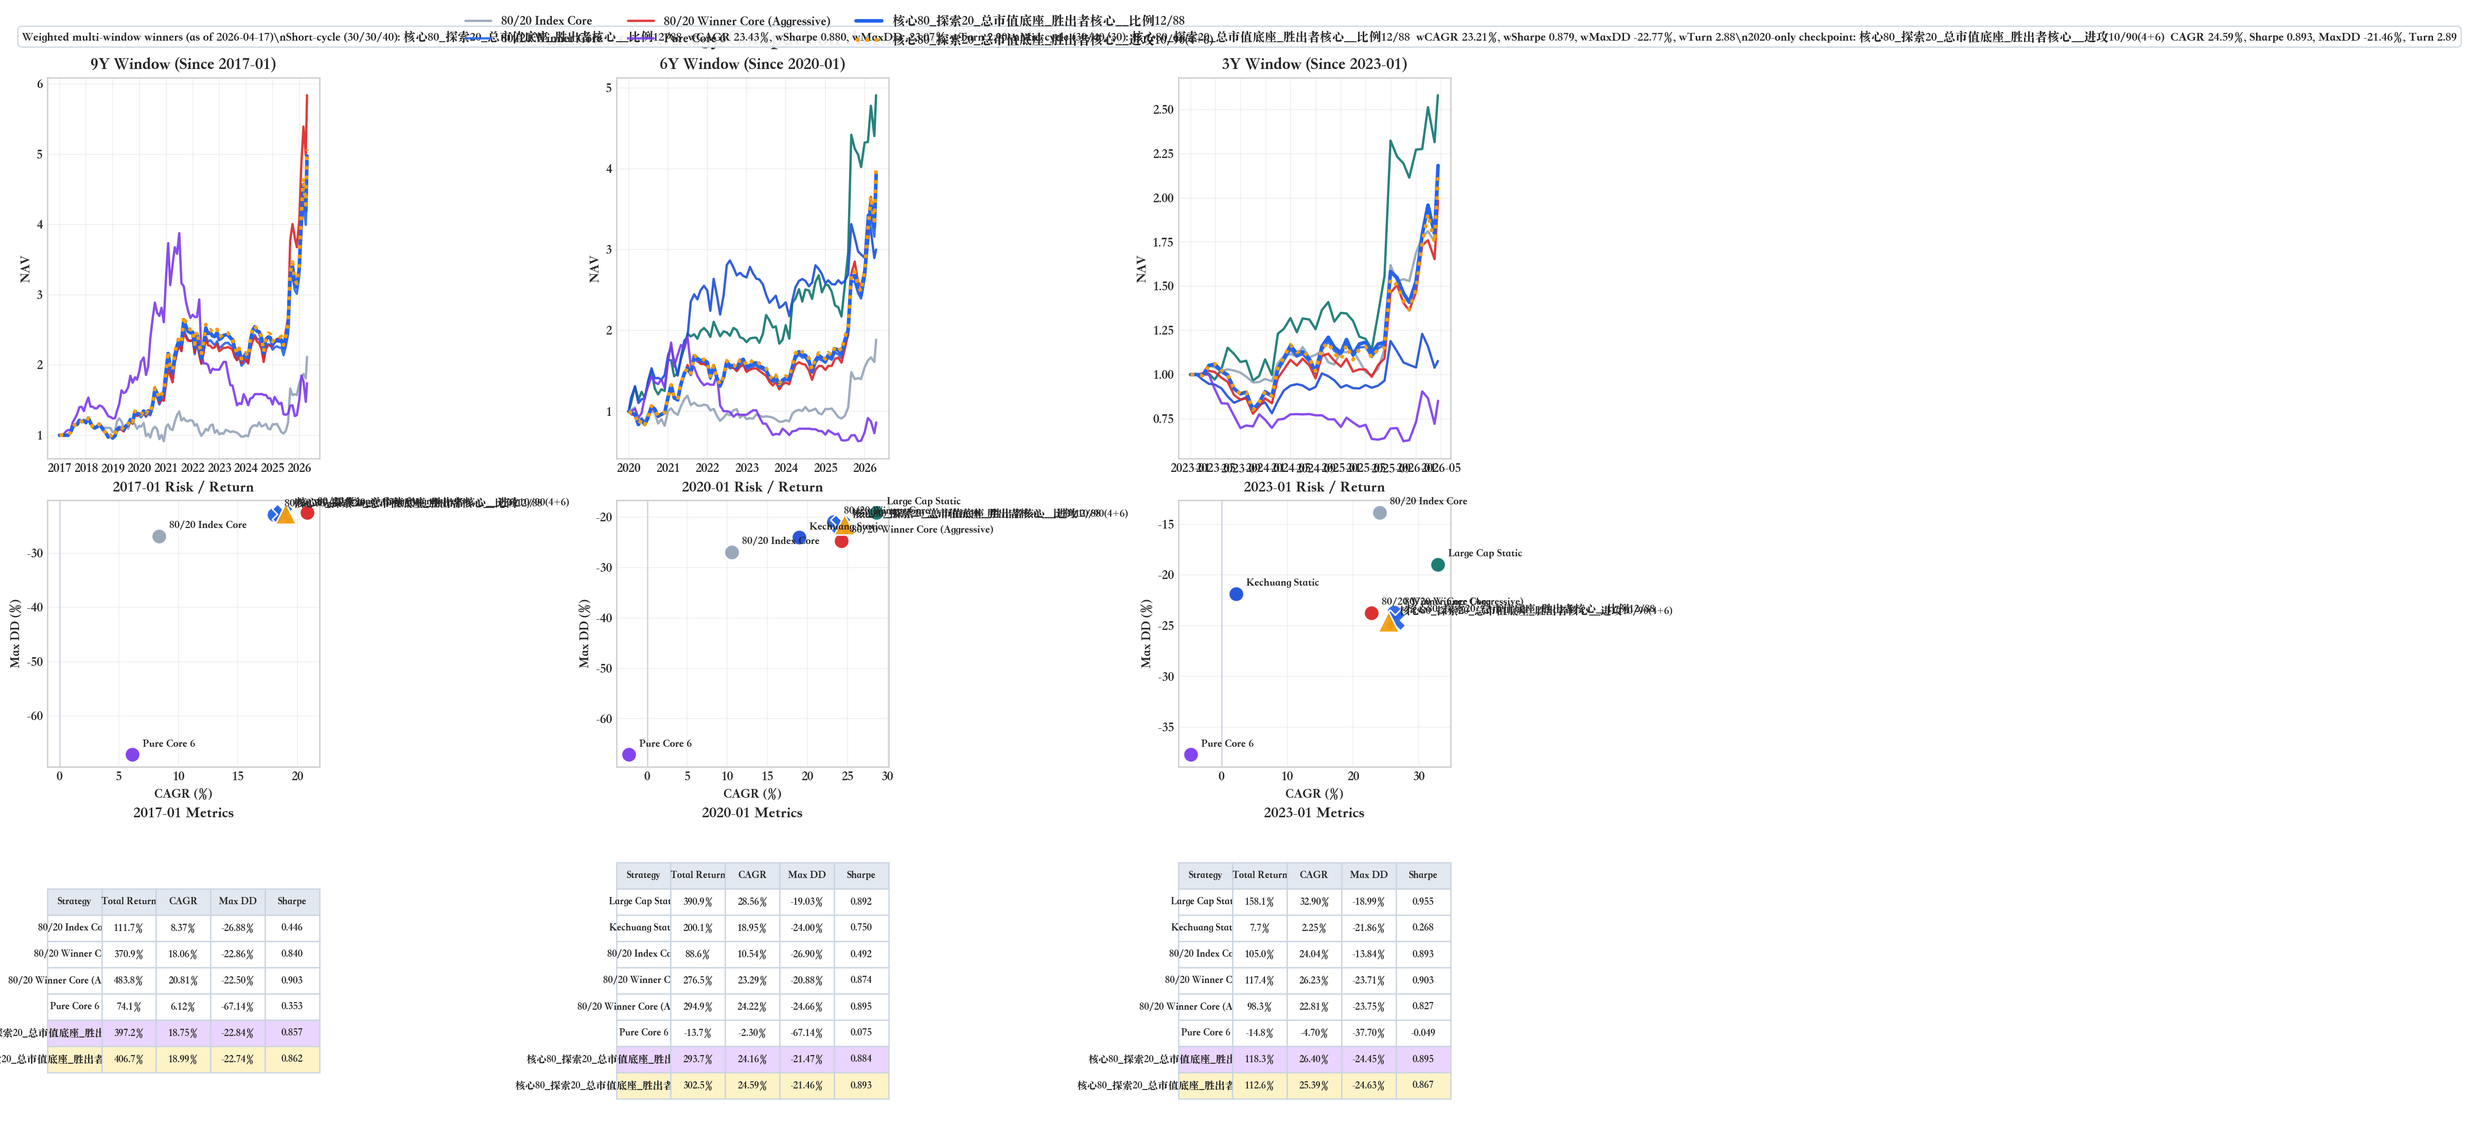
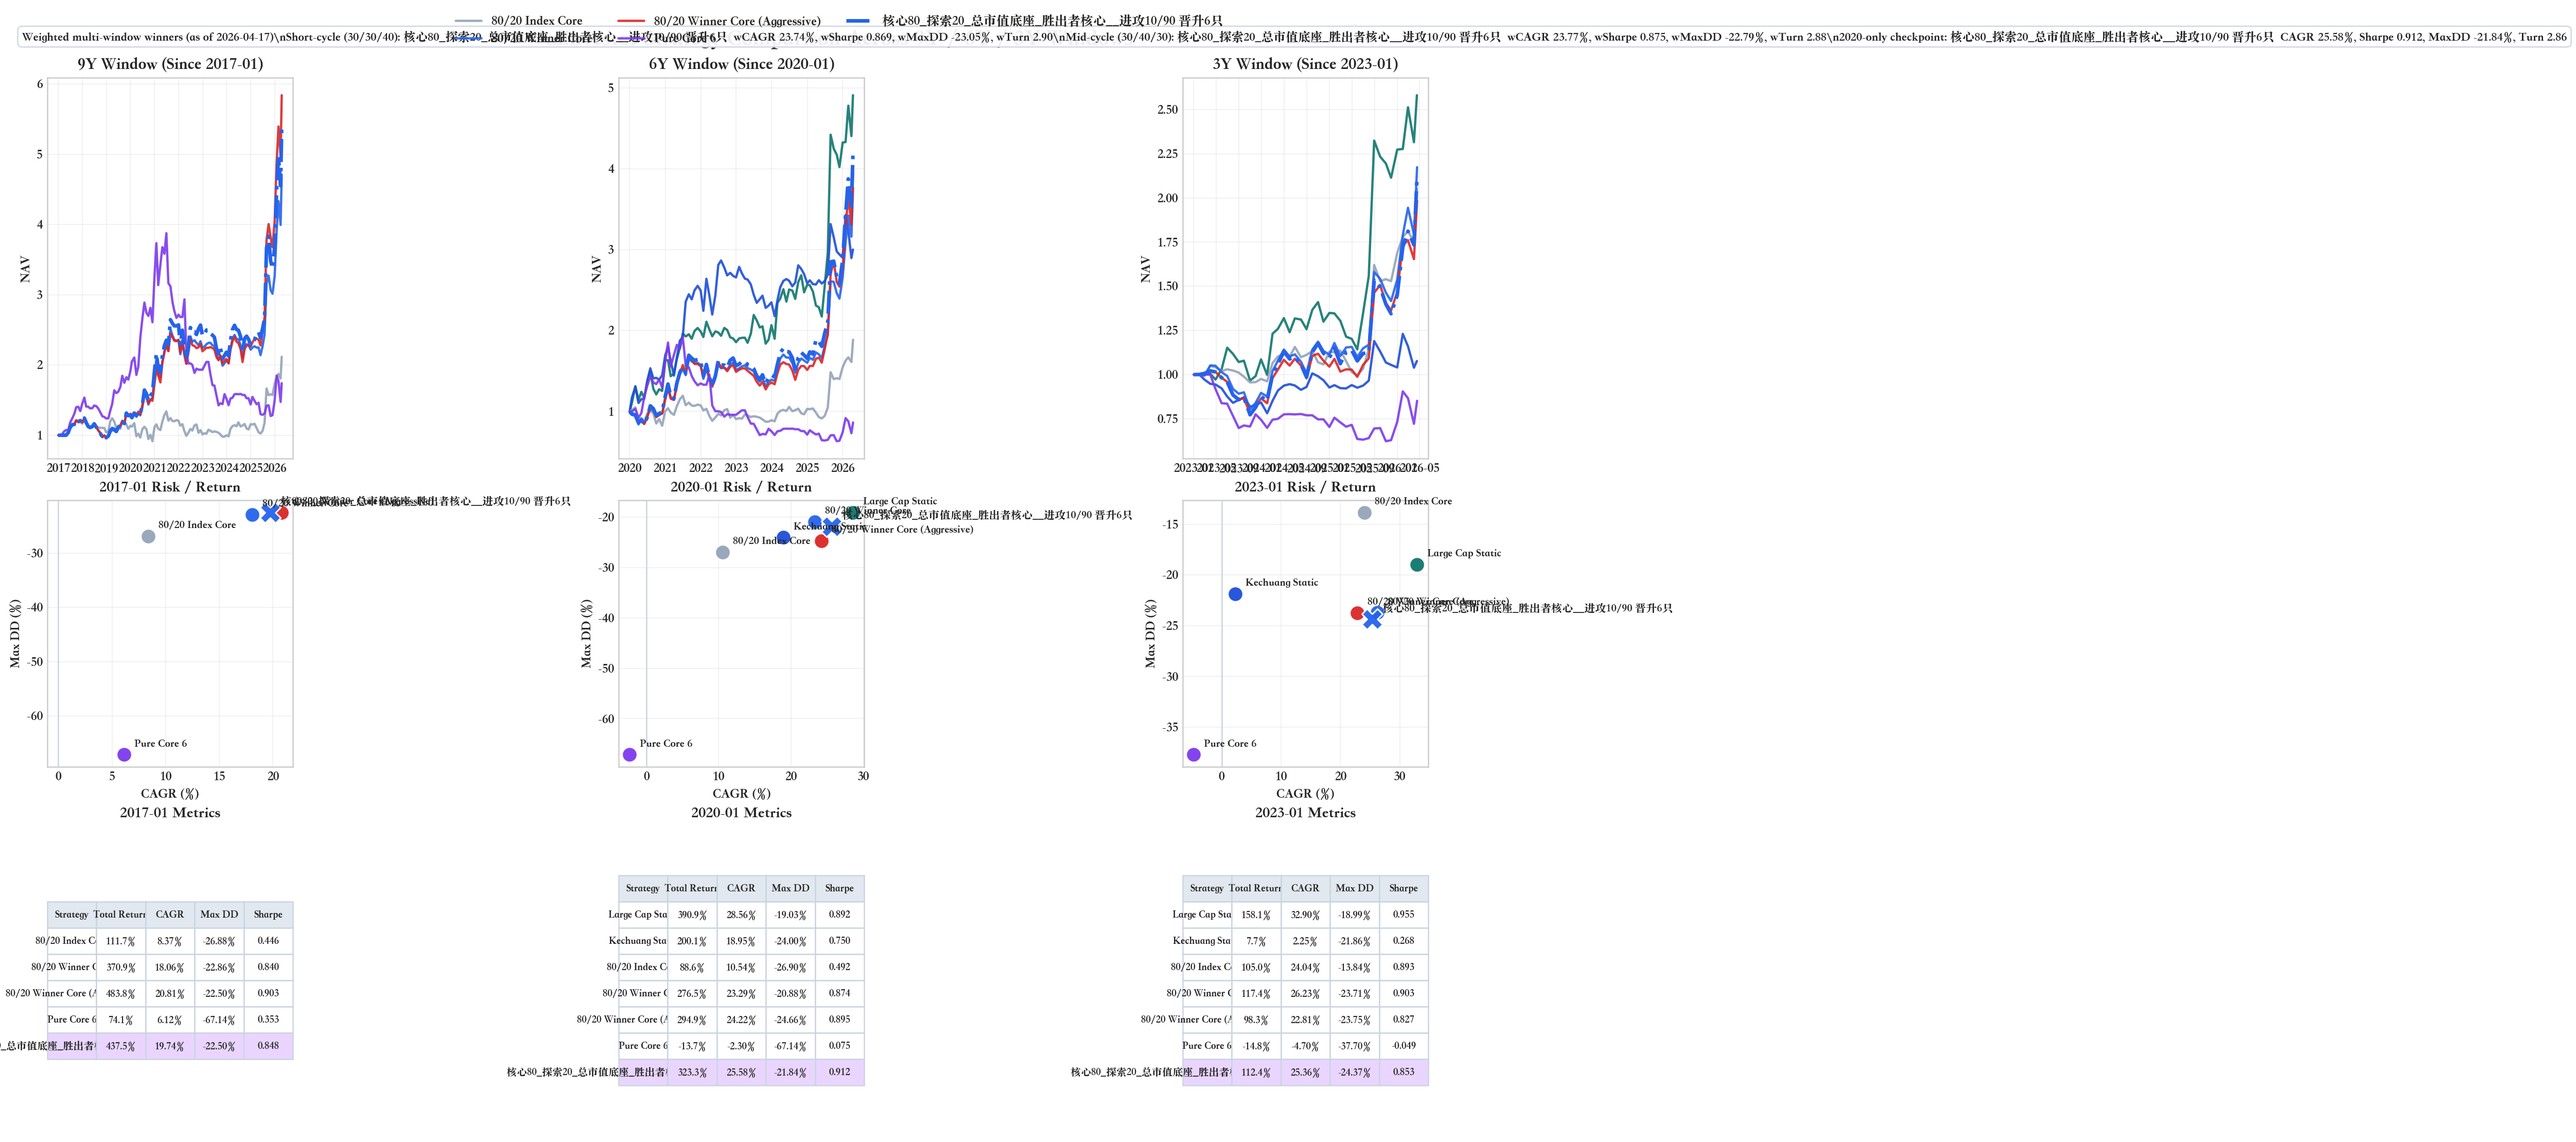
Track aggr_10_90_prom6 as new winner

diff --git a/backtest_marketcap_etf.py b/backtest_marketcap_etf.py
@@ -134,6 +134,15 @@ WINNER_CORE_VARIANTS = [
         "promoted_core_stage_ramp": {1: 1.00},
     },
     {
+        "variant_id": "aggr_10_90_prom6",
+        "variant_name": "进攻10/90 晋升6只",
+        "winner_core_stable_share": 0.10,
+        "winner_core_promoted_share": 0.90,
+        "stable_core_max_holdings": 2,
+        "promoted_core_max_holdings": 6,
+        "promoted_core_stage_ramp": {1: 1.00},
+    },
+    {
         "variant_id": "share_12_88_hold_4_6",
         "variant_name": "比例12/88",
         "winner_core_stable_share": 0.12,

diff --git a/README.md b/README.md
@@ -30,36 +30,36 @@ This repo tracks *three winners in parallel* using weighted multi-window scoring
 
 ### Short-cycle Winner (30/30/40)
 
-- Strategy: `core_explore_80_20_total_mv_winner_core__share_12_88_hold_4_6` (核心80_探索20_总市值底座_胜出者核心__比例12/88)
-- Weighted (CAGR / Sharpe / Max DD / Turnover): `23.43%` / `0.8801` / `-23.07%` / `2.90`
+- Strategy: `core_explore_80_20_total_mv_winner_core__aggr_10_90_prom6` (核心80_探索20_总市值底座_胜出者核心__进攻10/90 晋升6只)
+- Weighted (CAGR / Sharpe / Max DD / Turnover): `23.74%` / `0.8694` / `-23.05%` / `2.90`
 
 Window metrics (as of `2026-04-17`, weights: 2017-01=30%, 2020-01=30%, 2023-01=40%):
 
-- `2017-01-01` → `2026-04-17`: CAGR `18.75%`, Max DD `-22.84%`, Sharpe `0.8570`
-- `2020-01-01` → `2026-04-17`: CAGR `24.16%`, Max DD `-21.47%`, Sharpe `0.8838`
-- `2023-01-01` → `2026-04-17`: CAGR `26.40%`, Max DD `-24.45%`, Sharpe `0.8946`
+- `2017-01-01` → `2026-04-17`: CAGR `19.74%`, Max DD `-22.50%`, Sharpe `0.8480`
+- `2020-01-01` → `2026-04-17`: CAGR `25.58%`, Max DD `-21.84%`, Sharpe `0.9122`
+- `2023-01-01` → `2026-04-17`: CAGR `25.36%`, Max DD `-24.37%`, Sharpe `0.8533`
 
 ### Mid-cycle Winner (30/40/30)
 
-- Strategy: `core_explore_80_20_total_mv_winner_core__share_12_88_hold_4_6` (核心80_探索20_总市值底座_胜出者核心__比例12/88)
-- Weighted (CAGR / Sharpe / Max DD / Turnover): `23.21%` / `0.8790` / `-22.77%` / `2.88`
+- Strategy: `core_explore_80_20_total_mv_winner_core__aggr_10_90_prom6` (核心80_探索20_总市值底座_胜出者核心__进攻10/90 晋升6只)
+- Weighted (CAGR / Sharpe / Max DD / Turnover): `23.77%` / `0.8753` / `-22.79%` / `2.88`
 
 Window metrics (as of `2026-04-17`, weights: 2017-01=30%, 2020-01=40%, 2023-01=30%):
 
-- `2017-01-01` → `2026-04-17`: CAGR `18.75%`, Max DD `-22.84%`, Sharpe `0.8570`
-- `2020-01-01` → `2026-04-17`: CAGR `24.16%`, Max DD `-21.47%`, Sharpe `0.8838`
-- `2023-01-01` → `2026-04-17`: CAGR `26.40%`, Max DD `-24.45%`, Sharpe `0.8946`
+- `2017-01-01` → `2026-04-17`: CAGR `19.74%`, Max DD `-22.50%`, Sharpe `0.8480`
+- `2020-01-01` → `2026-04-17`: CAGR `25.58%`, Max DD `-21.84%`, Sharpe `0.9122`
+- `2023-01-01` → `2026-04-17`: CAGR `25.36%`, Max DD `-24.37%`, Sharpe `0.8533`
 
 ### 2020-Window Winner (2020-only checkpoint)
 
-- Strategy: `core_explore_80_20_total_mv_winner_core__aggr_10_90_hold_4_6` (核心80_探索20_总市值底座_胜出者核心__进攻10/90(4+6))
-- Weighted (CAGR / Sharpe / Max DD / Turnover): `24.59%` / `0.8933` / `-21.46%` / `2.89`
+- Strategy: `core_explore_80_20_total_mv_winner_core__aggr_10_90_prom6` (核心80_探索20_总市值底座_胜出者核心__进攻10/90 晋升6只)
+- Weighted (CAGR / Sharpe / Max DD / Turnover): `25.58%` / `0.9122` / `-21.84%` / `2.86`
 
 Window metrics (as of `2026-04-17`, weights: 2020-01=100%):
 
-- `2017-01-01` → `2026-04-17`: CAGR `18.99%`, Max DD `-22.74%`, Sharpe `0.8620`
-- `2020-01-01` → `2026-04-17`: CAGR `24.59%`, Max DD `-21.46%`, Sharpe `0.8933`
-- `2023-01-01` → `2026-04-17`: CAGR `25.39%`, Max DD `-24.63%`, Sharpe `0.8675`
+- `2017-01-01` → `2026-04-17`: CAGR `19.74%`, Max DD `-22.50%`, Sharpe `0.8480`
+- `2020-01-01` → `2026-04-17`: CAGR `25.58%`, Max DD `-21.84%`, Sharpe `0.9122`
+- `2023-01-01` → `2026-04-17`: CAGR `25.36%`, Max DD `-24.37%`, Sharpe `0.8533`
 
 <!-- AUTO:WEIGHTED-WINNERS:END -->
 
@@ -74,7 +74,7 @@ This strategy uses:
 - forward-adjusted prices
 - market-cap base weights
 - winner promotion from explore/seed into core
-- winner-core allocation tuned per track (current weighted winner: stable/promoted ≈ 12%/88%, holdings 4/6, ramp {1:1.00}; 2020-only winner: stable/promoted ≈ 10%/90%, holdings 4/6)
+- winner-core allocation tuned per track (current tracked winner: stable/promoted ≈ 10%/90%, holdings 2/6, ramp {1:1.00})
 - realistic buy/sell commissions and stamp duty
 
 ## Strategy Structure
